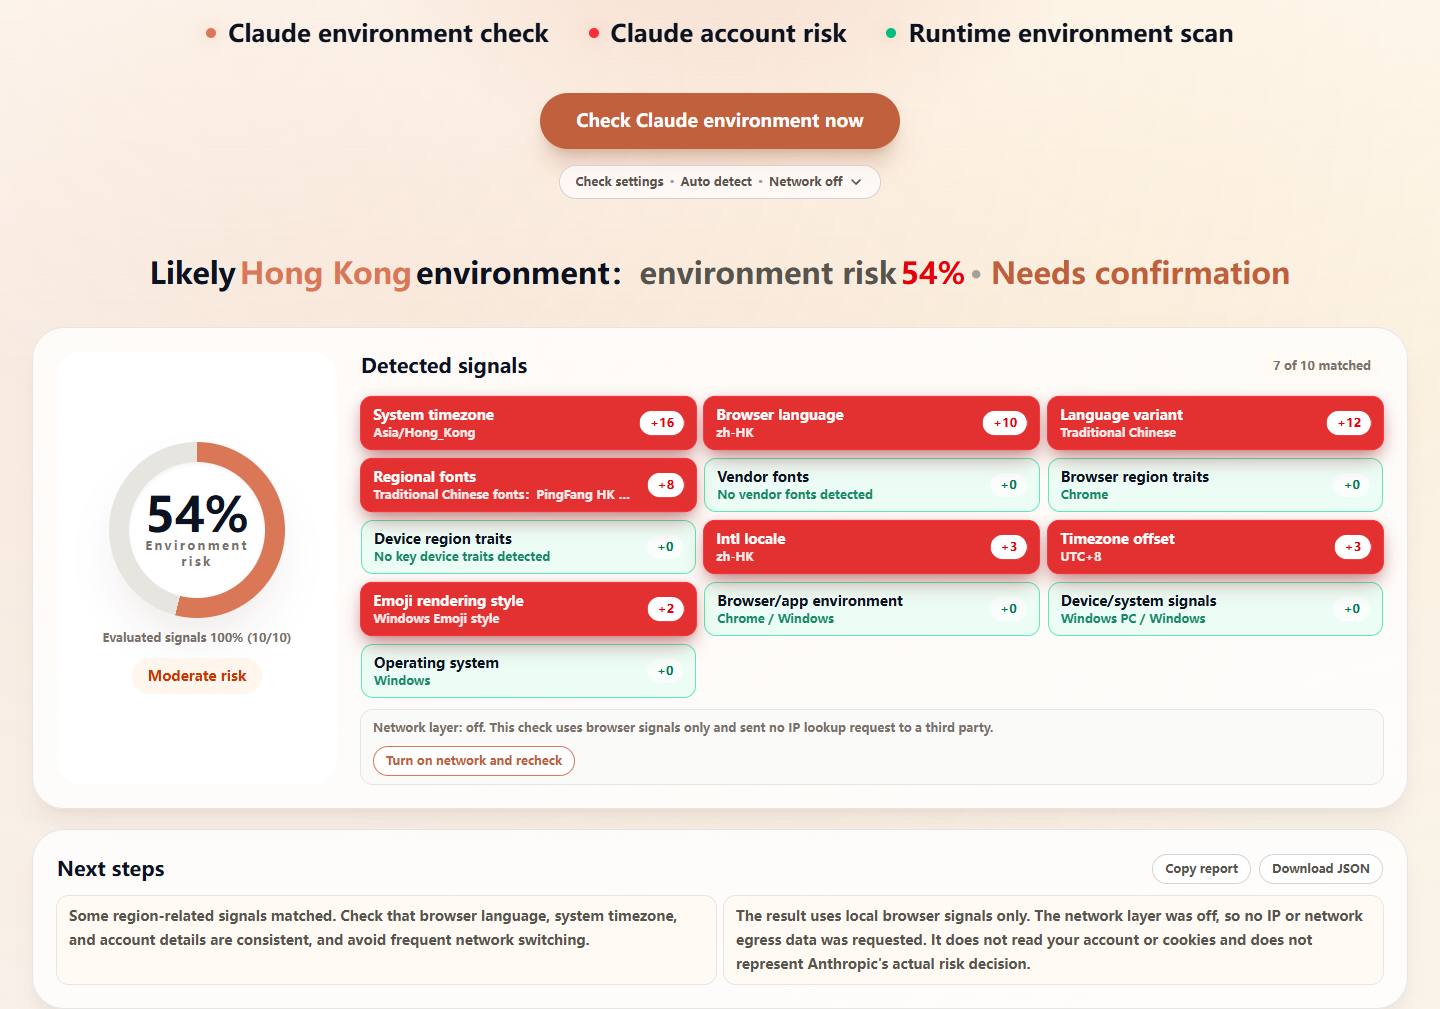
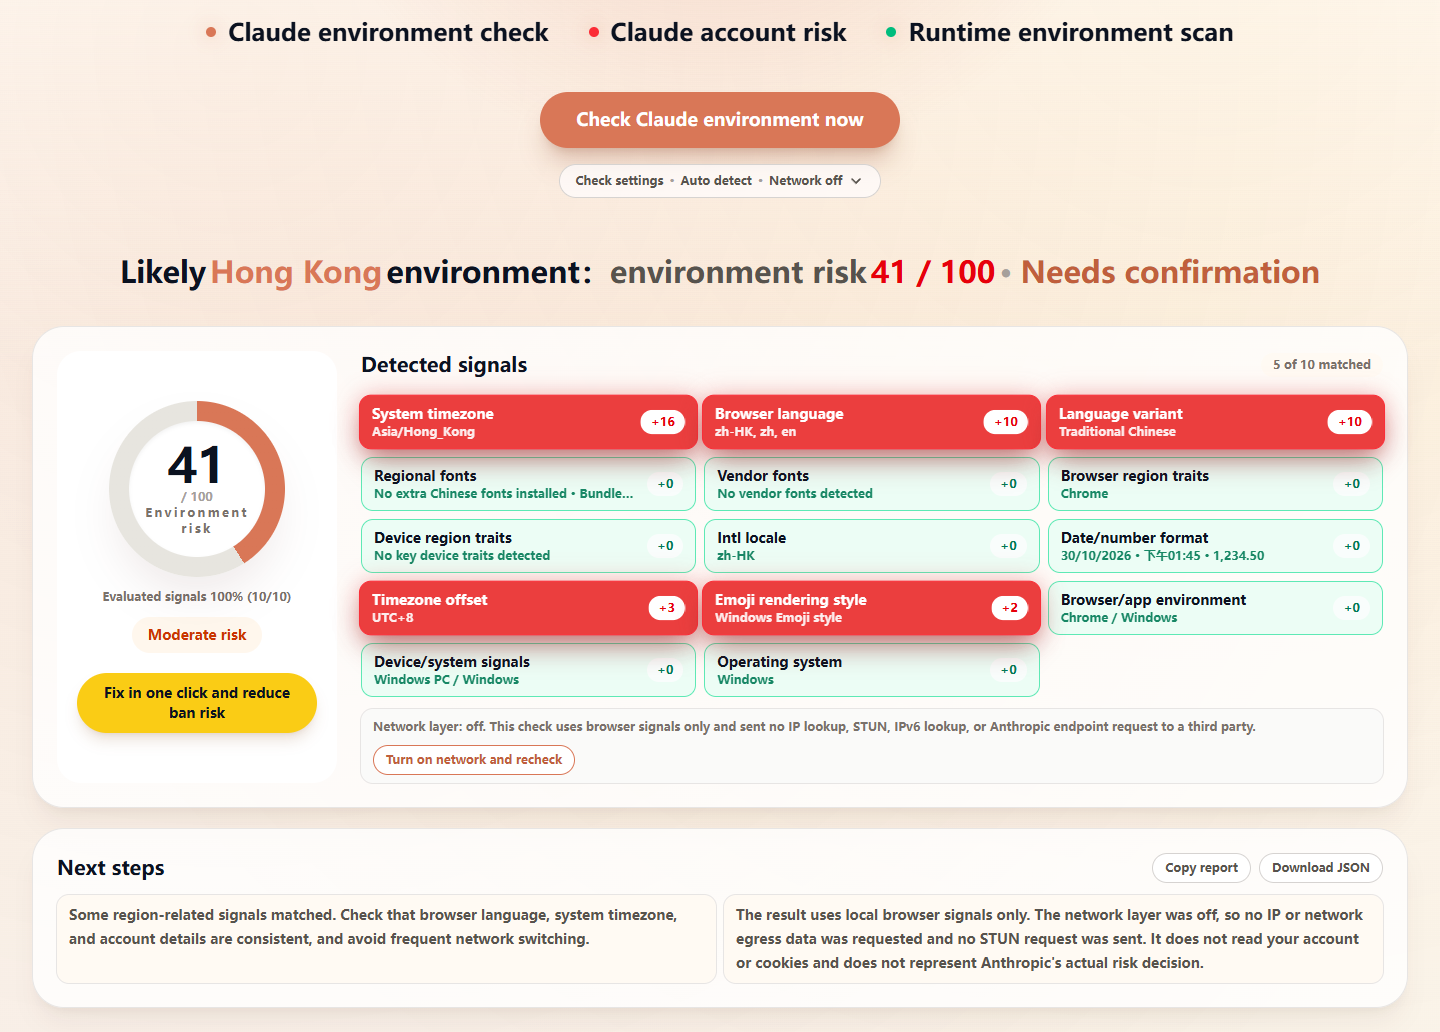
docs: sync READMEs and screenshots with the review fixes (#3)
- Changelog lists the scoring fixes and deployment hardening; test
  count is 148.
- Project structure adds merge-signals.ts and deploy/csp.mjs.
- deploy/README: verify CSP, relative redirects and the non-root user;
  note the container port change from 80 to 8080 when upgrading; add a
  rollback tag step and the 2026-10-30 verification record.
- Retake the six result screenshots with the new scoring and the
  "xx / 100" display. They use example data (a public DNS IP, WebRTC
  disabled), not a real visitor.

diff --git a/README.en.md b/README.en.md
@@ -58,13 +58,13 @@ The landing page exposes the check immediately. Auto detection is the default, a
 
 ![CheckCC browser-only result](./docs/images/readme/detection-browser-only-en.png)
 
-The result lists matched signals, weight contributions, the risk score, and coverage. The example above is a mainland-China-style environment with `10/10` coverage and no IP lookup sent to a third party; the score depends on which signals match.
+The result lists matched signals, weight contributions, the risk score, and coverage. The example above is a mainland-China-style Windows environment: the timezone and browser language match, coverage is `10/10`, and no IP lookup is sent to a third party. The YaHei and SimSun fonts bundled with Windows are shown as context only. Language variant and Intl locale share a group with browser language, which is already at the group cap, so they show +0. The score depends on which signals match.
 
 ### 🌐 Network layer enabled
 
 ![CheckCC result with network layer](./docs/images/readme/detection-network-en.png)
 
-After "Turn on network and recheck", the browser queries `ipwho.is` directly for your public IP. If the primary endpoint fails or is rate-limited, it automatically falls back to `ipapi.co`, and the notice shows which service was actually used. The same run gathers WebRTC egress candidates through STUN, queries the direct IPv6 exit, and probes the three Anthropic endpoints, then cross-checks them against the HTTP exit and IP timezone. Weighted signals still top out at `13/13`; the signal panel shows at most 29 rows (14 browser + 15 network), of which only IP country, WebRTC egress, and IP timezone are weighted. When WebRTC is unsupported, STUN is blocked, or no comparable candidate exists, those signals are marked "not evaluated" and coverage drops; endpoint or IPv6 failures only affect their own zero-weight signals.
+The screenshot uses example data: the IP is a public DNS address and WebRTC shows as unsupported, so it does not represent a real visitor. After "Turn on network and recheck", the browser queries `ipwho.is` directly for your public IP. If the primary endpoint fails or is rate-limited, it automatically falls back to `ipapi.co`, and the notice shows which service was actually used. The same run gathers WebRTC egress candidates through STUN, queries the direct IPv6 exit, and probes the three Anthropic endpoints, then cross-checks them against the HTTP exit and IP timezone. Weighted signals still top out at `13/13`; the signal panel shows at most 29 rows (14 browser + 15 network), of which only IP country, WebRTC egress, and IP timezone are weighted. When WebRTC is unsupported, STUN is blocked, or no comparable candidate exists, those signals are marked "not evaluated" and coverage drops; endpoint or IPv6 failures only affect their own zero-weight signals.
 
 ### 🇭🇰 Hong Kong profile
 
@@ -203,12 +203,13 @@ review-check-cc/
 │  │  ├─ robots.ts                # robots.txt
 │  │  └─ sitemap.ts               # sitemap.xml
 │  ├─ components/
-│  │  ├─ detector/Detector.tsx    # Detection flow, settings, report export
+│  │  ├─ detector/Detector.tsx    # Detection flow, settings, report export UI
 │  │  ├─ home/HomeContent.tsx     # Home page content and structured data
 │  │  └─ layout/                  # Header, footer, mobile menu
 │  ├─ detection/
-│  │  ├─ client-engine.ts         # Browser sampling and signal scoring
-│  │  ├─ scoring.ts               # Regional profile matching
+│  │  ├─ client-engine.ts         # Browser sampling, signal scoring, group caps
+│  │  ├─ scoring.ts               # Regional profile matching, risk levels, token matching
+│  │  ├─ merge-signals.ts         # Merges browser signals and network results into the displayed list
 │  │  ├─ ip-intel.ts              # Optional network lookup and parsing
 │  │  ├─ reachability.ts          # Claude endpoint reachability and latency probe
 │  │  ├─ ipv6.ts                  # Direct IPv6 egress lookup and same-family comparison
@@ -220,8 +221,8 @@ review-check-cc/
 │  ├─ i18n/                       # Four-language copy and metadata
 │  └─ regions/                    # Mainland China / Hong Kong / Russia / Iran
 ├─ docs/images/                   # README screenshots
-├─ deploy/                        # VPS Docker deploy script and Nginx config
-├─ Dockerfile                     # Multi-stage build: static export + Nginx
+├─ deploy/                        # VPS deploy script, Nginx config, and the csp.mjs CSP generator
+├─ Dockerfile                     # Multi-stage build: static export + non-root Nginx (images pinned by digest)
 ├─ docker-compose.yml             # One-command VPS configuration
 ├─ .env.example                   # Deployment environment template
 ├─ shell/deploy-restart-hot.sh    # Local one-command launcher
@@ -344,14 +345,14 @@ Each IP endpoint times out after 3500 ms, WebRTC candidate gathering after 2500 
 ```bash
 pnpm lint        # ESLint
 pnpm typecheck   # TypeScript
-pnpm test        # Vitest, 128 tests
+pnpm test        # Vitest, 148 tests
 pnpm check       # lint + typecheck + test
 pnpm build       # Static export
 ```
 
-GitHub Actions runs lint, type checking, unit tests, and a static build on push and pull requests.
+GitHub Actions runs lint, type checking, unit tests, and a static build on push and pull requests; the actions are pinned to commit SHAs. CI does not build the Docker image, so container changes need a separate check on a machine with Docker.
 
-Tests cover score non-inflation under partial coverage, unknown signals, zero-weight signals, IP classification, IP lookup parsing/timeouts/failures, ICE candidate parsing, WebRTC vs. HTTP egress comparison, IPv6 candidates, timezone-offset comparison, country-profile matching, Hong Kong vs. mainland attribution, endpoint reachability timeouts and summaries, direct IPv6 egress parsing and same-family comparison, egress-type heuristics, date/number format context, report export, and locale copy completeness.
+Tests cover score non-inflation under partial coverage, unknown signals, zero-weight signals, IP classification, IP lookup parsing/timeouts/failures, ICE candidate parsing, WebRTC vs. HTTP egress comparison, IPv6 candidates, timezone-offset comparison, country-profile matching, Hong Kong vs. mainland attribution, endpoint reachability timeouts and summaries, direct IPv6 egress parsing and same-family comparison, egress-type heuristics, date/number format context, report export, and locale copy completeness; plus OS-bundled Chinese fonts not being scored, token matching for browser/device traits, correlated-signal group caps, risk-level thresholds, the report recording the detected region separately from the check target, WebRTC treating multiple exits as consistent, and merging network results (`mergeSignals`).
 
 ## 🗺 Routes
 
@@ -408,7 +409,17 @@ Yes. Set `NEXT_PUBLIC_IP_INTEL_ENABLED=false` at build time to remove the toggle
 - Added date, time, and number format context; network-toggle copy and privacy notes now cover the new third-party requests.
 - WebRTC probing stays off with the network layer; failures or unsupported browsers only reduce coverage and never change the existing score.
 - Updated copy in all four languages, READMEs, and privacy notes.
-- 128 unit tests, type checking, lint, and static build pass.
+- Scoring fix: Chinese fonts bundled with Windows / macOS / Linux are shown but not scored, so ordinary users outside China are no longer flagged.
+- Scoring fix: three groups of correlated signals (timezone, language, fonts) are capped at their largest weight, so the browser layer tops out at 80. The score is shown as "xx / 100" instead of a percentage.
+- Scoring fix: the page, report, and recommendations share one set of thresholds (70 / 31); the unused legacy scoring path was removed.
+- Browser and device traits match whole tokens, so `360` or `vivo` no longer match build numbers or other words.
+- WebRTC counts as consistent when any same-family candidate equals the HTTP exit; other exits are shown as context.
+- Egress type checks specific provider names before generic keywords, and now recognizes Chinanet, CMNET, and Unicom.
+- The report's "Detected region" is the matched profile; the "Check target" the user selected is recorded separately.
+- The network-result merge moved out of the detector component into a unit-tested `mergeSignals`; Russian summary copy moved into the locale table.
+- Deployment hardening: the runtime image is the non-root `nginx-unprivileged` (listening on 8080 in the container), run read-only with all capabilities dropped. A build-time CSP limits `connect-src` to the third-party origins actually used.
+- Base images are pinned by digest and CI actions by commit SHA.
+- 148 unit tests, type checking, lint, and static build pass; the new image was verified on Debian 13.
 
 ### Roadmap
 

diff --git a/deploy/README.md b/deploy/README.md
@@ -206,8 +206,10 @@ curl -fsS "$BASE/healthz"
 for path in / /en/ /hong-kong/ /russia/ /no-such-page/; do
   curl -s -o /dev/null -w "$path %{http_code}\n" "$BASE$path"
 done
-curl -sI "$BASE/" | sed -n '1,12p'
+curl -sI "$BASE/" | sed -n '1,20p'
+curl -sI "$BASE/en" | grep -i '^location'
 docker compose ps
+docker exec checkcc id -u
 ```
 
 预期：
@@ -215,7 +217,9 @@ docker compose ps
 - `/healthz` 返回 `ok`；
 - `/`、`/en/`、`/hong-kong/`、`/russia/` 返回 200，未知路径返回 404；
 - HTML 返回 `Cache-Control: no-cache`，`/_next/static/` 资源长期缓存，并启用 gzip；
-- `docker compose ps` 显示 `healthy`；
+- 响应头里有 `Content-Security-Policy`，其中 `connect-src` 列出的是你配置的 IP 查询和 IPv6 查询地址；
+- `/en` 的 301 跳转 `Location` 是相对路径 `/en/`，不带容器内部端口；
+- `docker compose ps` 显示 `healthy`，`docker exec checkcc id -u` 输出 `101`（非 root）；
 - 重启后恢复健康：
 
 ```bash
@@ -229,6 +233,7 @@ docker inspect -f '{{.State.Health.Status}}' checkcc
 - 点击“开启网络层并重测”后，浏览器会先请求 `ipwho.is`；失败或被限流时自动回退到 `ipapi.co`，成功提示会显示实际使用的服务。
 - 同一次网络层检测还会直连 STUN、IPv6 查询接口和 Anthropic 三个探测目标（claude.ai 边缘诊断路径、www.anthropic.com、api.anthropic.com）；它们相互独立，单个探测失败只影响对应信号。claude.ai 主站受 CORP 限制，浏览器不直接探测。
 - 两个 IP 接口都失败时才会跳过 IP 信号；覆盖率下降，但风险分不会被抬高。
+- 打开浏览器开发者工具的控制台，开启网络层检测后不应出现 `Content Security Policy` 报错；如果出现，通常是自定义了 `NEXT_PUBLIC_*` 端点但没有重新构建。
 - IP 查询、STUN、IPv6 查询和端点探测都由访客浏览器直接发起，Nginx 访问日志里看不到这些第三方请求，这是正常的。
 
 ## 7. 更新、回滚和清理
@@ -241,6 +246,14 @@ git pull
 ```
 
 `.env` 会保留；项目没有数据库和持久化卷，更新只会替换静态文件和容器，通常只有很短的停机时间。更新前可以用 `git log -1` 确认版本。
+
+> **从 `9a079d7` 之前的版本升级**：容器内端口从 80 改为 8080。用本仓库的 `docker-compose.yml` 和 `deploy.sh` 部署时，映射已同步修改，宿主机端口仍由 `CHECKCC_PORT` 决定，不需要额外操作。如果你的反向代理直接连接容器的 80 端口（例如在同一 Docker 网络里按服务名 `checkcc:80` 转发），需要改成 `checkcc:8080`。
+
+更新前可以给当前镜像打一个回滚标签，出问题时不用重新构建就能退回：
+
+```bash
+docker tag checkcc:local checkcc:rollback-$(git rev-parse --short HEAD)
+```
 
 需要回滚时，先确认工作区没有未提交修改，再切换到目标提交并重新构建：
 
@@ -313,7 +326,13 @@ curl -v "http://127.0.0.1:${PORT}/healthz"
 
 版本号只是这次验证的环境记录；请按 Docker 官方支持范围选择版本。本次验证未包含域名、TLS 和公网暴露配置。
 
-这次验证之后，容器改为以非 root 用户运行的 `nginx-unprivileged` 镜像（容器内监听 8080），根文件系统只读，并去掉了全部 Linux capabilities。
+2026-10-30 在同一环境上验证了加固后的镜像（`9a079d7`）：
+
+- 按 digest 锁定的基础镜像拉取正常，构建通过；
+- 容器以 uid 101 运行，根文件系统只读、去掉全部 capabilities 后健康检查为 `healthy`，日志无写入错误；
+- 四语言路由、`/healthz`、`robots.txt`、`sitemap.xml` 返回 200，未知路径返回 404，RSC 预取文件（文件名含 `!`）返回 200；
+- HTML 和 `/_next/static/` 都带 CSP 与其他安全头；`/en` 跳转为相对路径 `/en/`；
+- 无头 Chrome 开启网络层完成检测，CSP 违规 0 次。
 
 ### 容器加固
 
@@ -328,5 +347,5 @@ curl -v "http://127.0.0.1:${PORT}/healthz"
 - 本项目是纯静态站点，容器内没有 Node 服务端运行时，也没有数据库。
 - IP 查询由访客浏览器直接请求第三方服务；服务器只托管静态文件。
 - 页面中的站点 URL、canonical 和 sitemap 在构建时写入；换域名后需要重新构建。
-- 容器以 Nginx 默认用户运行，未挂载宿主机目录，不需要额外文件权限。
+- 容器以非 root 用户（uid 101）运行，根文件系统只读，未挂载宿主机目录，不需要额外文件权限。
 - 如果不想使用 Docker，也可以把 `out/` 部署到任意静态托管，参见主 README 的“手动静态托管”。
